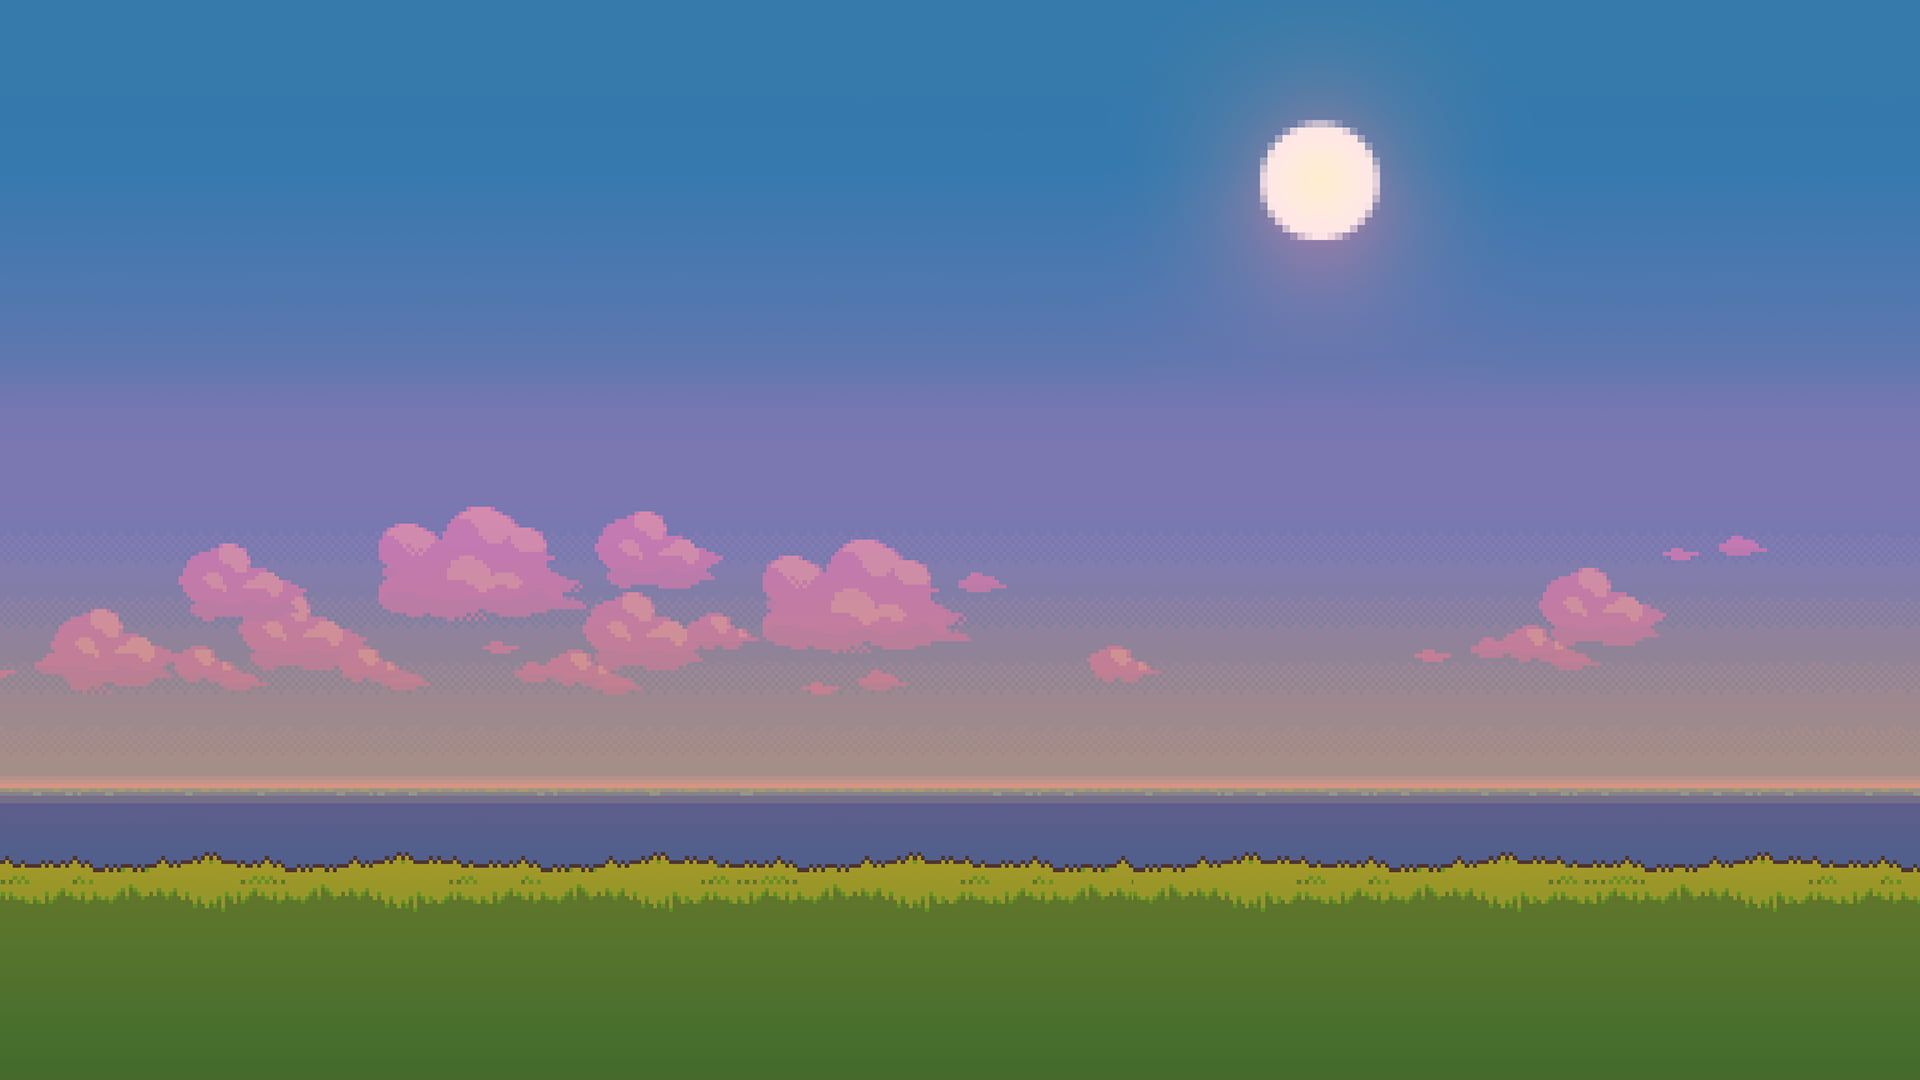
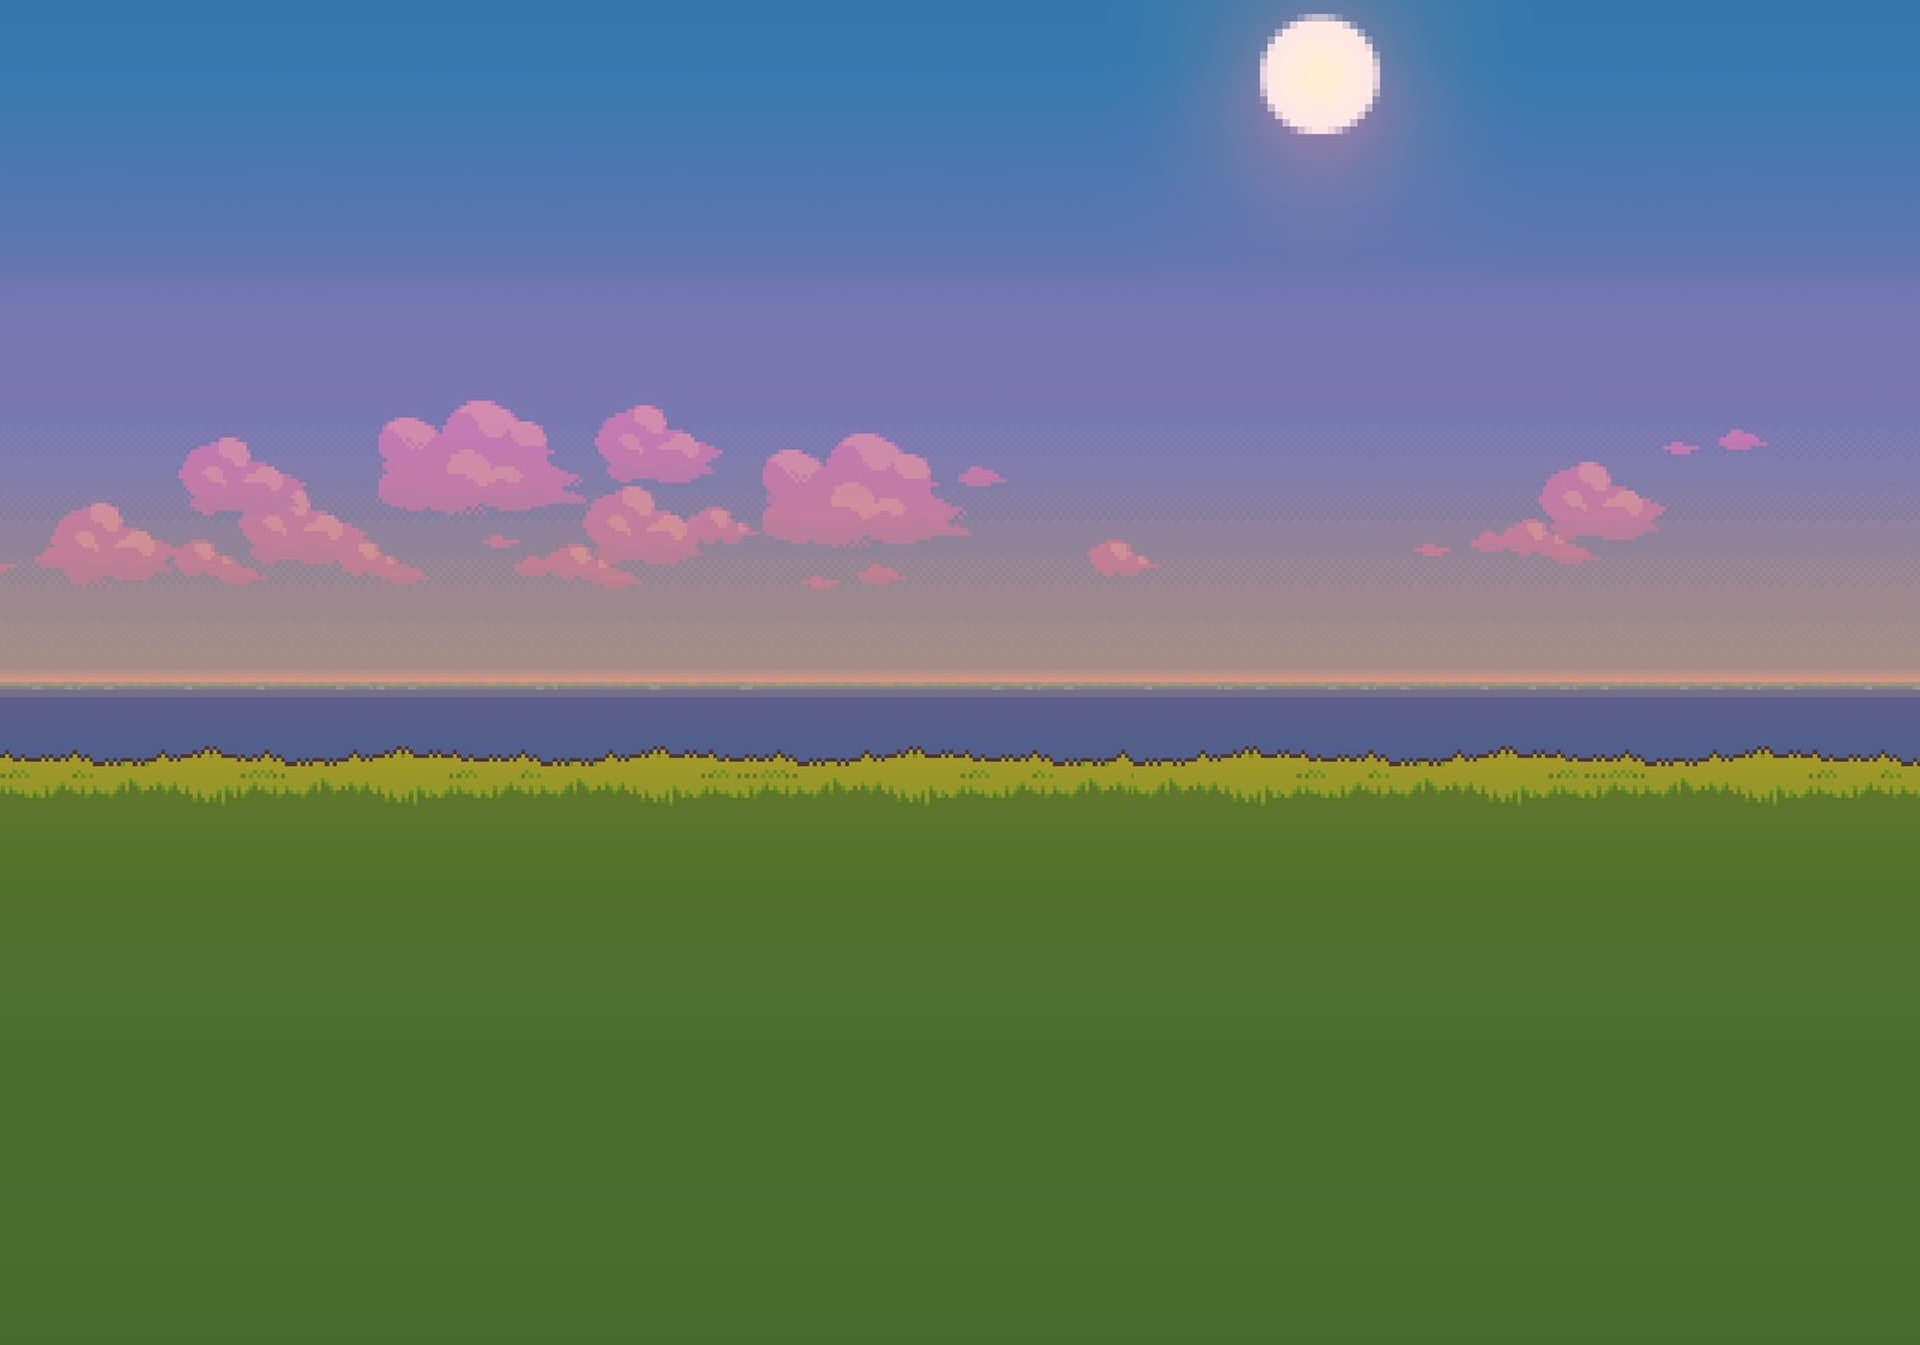
добавлены стили, анимация векты и новые препятствия

diff --git a/src/screens/Game.tsx b/src/screens/Game.tsx
@@ -1,4 +1,5 @@
 "use client";
+
 import { useRef } from "react";
 import { useEffect } from "react";
 
@@ -13,7 +14,6 @@ function Game() {
         if (!ctx) return;
 
         const dpr = window.devicePixelRatio ?? 1;
-
         const w = 360;
         const h = 640;
         canvas.style.width = `${w}px`;
@@ -21,17 +21,12 @@ function Game() {
         canvas.width = Math.floor(w * dpr);
         canvas.height = Math.floor(h * dpr);
 
-
         ctx!.setTransform(dpr, 0, 0, dpr, 0, 0);
 
         const bg = new Image();
         bg.src = "/background-2.jpg";
 
-        // const characterImg = new Image();
-        // characterImg.src = "/characters/vecta.png"; 
-        // characterImg.src = "/characters/runner.gif";
-
-        const RUN_FRAMES = [
+        const RUN_FRAMES_KODIK = [
             "/characters/kodik-1.png",
             "/characters/kodik-2.png",
             "/characters/kodik-3.png",
@@ -41,7 +36,17 @@ function Game() {
             "/characters/kodik-7.png",
         ];
 
-        const runImages = RUN_FRAMES.map((src) => {
+        const RUN_FRAMES_VECTA = [
+            "/characters/vecta-1.png",
+            "/characters/vecta-2.png",
+            "/characters/vecta-3.png",
+            "/characters/vecta-4.png",
+            "/characters/vecta-5.png",
+            "/characters/vecta-6.png",
+            "/characters/vecta-7.png",
+        ]
+
+        const runImages = RUN_FRAMES_VECTA.map((src) => {
             const img = new Image();
             img.src = src;
             return img;
@@ -49,11 +54,23 @@ function Game() {
 
         let characterDraw = runImages[0];
         let useJumpFrame = false;
-        let jumpUntil = 0; // 0 = не в режиме прыжка
-        const JUMP_SPRITE_MS = 800; 
+        let jumpUntil = 0;
+        const JUMP_SPRITE_MS = 800;
 
         const konusImg = new Image();
         konusImg.src = '/konus.png';
+
+        const examImg = new Image();
+        examImg.src = '/exam.png';
+
+        const lakeImg = new Image();
+        lakeImg.src = '/lake.png';
+
+        const holeImg = new Image();
+        holeImg.src = '/hole.png';
+
+        const stopImg = new Image();
+        stopImg.src = '/stop.png';
 
         let playerY = 270;
         const jumpUp = 200;
@@ -109,12 +126,11 @@ function Game() {
                 const x1 = -offsetX;
                 ctx.drawImage(bg, x1, 0, bgW, h);
                 ctx.drawImage(bg, x1 + bgW, 0, bgW, h);
-                ctx.drawImage(konusImg, barrierX, 330, 80, 90);
-                ctx.drawImage(konusImg, barrierX + 200, 330, 80, 90);
-                ctx.drawImage(konusImg, barrierX + 450, 330, 80, 90);
-                ctx.drawImage(konusImg, barrierX + 600, 330, 80, 90);
-
-                // if (!isJumpSprite) {
+                ctx.drawImage(konusImg, barrierX, 330, 60, 75);
+                ctx.drawImage(lakeImg, barrierX + 400, 390, 90, 20);
+                ctx.drawImage(holeImg, barrierX + 750, 390, 90, 20);
+                ctx.drawImage(stopImg, barrierX + 1000, 290, 50, 120);
+                
                 if (playerY >= 270) {
                     if (Math.floor(now / 80) % 6 === 0) {
                         characterDraw = runImages[0];
@@ -131,7 +147,6 @@ function Game() {
                     }
                 } else {
                     characterDraw = runImages[6];
-                    // useJumpFrame = false;
                 }
                 
                 
@@ -143,61 +158,9 @@ function Game() {
                     // playerVY = 0;
                 // }
 
-                // if (Math.floor(now / 150) % 7 === 0) {
-                    
-                // } else if (Math.floor(now / 150) % 7 === 1) {
-                //     ctx.drawImage(
-                //         runImages[1],
-                //         48,
-                //         playerY,
-                //         150,
-                //         150
-                //     );
-                // } else if (Math.floor(now / 150) % 7 === 2) {
-                //     ctx.drawImage(
-                //         runImages[2],
-                //         48,
-                //         playerY,
-                //         150,
-                //         150
-                //     );
-                // } else if (Math.floor(now / 150) % 7 === 3) {
-                //     ctx.drawImage(
-                //         runImages[3],
-                //         48,
-                //         playerY,
-                //         150,
-                //         150
-                //     );
-                // } else if (Math.floor(now / 150) % 7 === 4) {
-                //     ctx.drawImage(
-                //         runImages[4],
-                //         48,
-                //         playerY,
-                //         150,
-                //         150
-                //     );
-                // } else if (Math.floor(now / 150) % 7 === 5) {
-                //     ctx.drawImage(
-                //         runImages[5],
-                //         48,
-                //         playerY,
-                //         150,
-                //         150
-                //     );
-                // } else if (Math.floor(now / 150) % 7 === 6) {
-                //     ctx.drawImage(
-                //         runImages[6],
-                //         48,
-                //         playerY,
-                //         150,
-                //         150
-                //     );
-                // }
-
                 ctx.drawImage(
                         characterDraw,
-                        48,
+                        30,
                         playerY,
                         150,
                         150

diff --git a/src/screens/Form.tsx b/src/screens/Form.tsx
@@ -21,6 +21,7 @@ function Form({onClick}: Props) {
             <div className="relative z-10 flex h-full flex-col items-stretch justify-center gap-2 p-6">
                 <p className="text-cream-text text-[16px] text-center">Чтобы выйти на старт, активируй</p>
                 <AccentText className="uppercase text-[24px] text-center">Driver Mode</AccentText>
+
                 <label htmlFor="first-name"
                     className="flex w-full items-center gap-2 text-left text-cream-text"
                 >
@@ -33,6 +34,7 @@ function Form({onClick}: Props) {
                     Имя
                 </label>
                 <Input id="first-name" placeholder="Введи имя"></Input>
+
                 <label htmlFor="last-name"
                     className="flex w-full items-center gap-2 text-left text-cream-text"
                 >
@@ -45,6 +47,7 @@ function Form({onClick}: Props) {
                     Фамилия
                 </label>
                 <Input id="last-name" placeholder="Введи фамилию"></Input>
+
                 <label htmlFor="city"
                     className="flex w-full items-center gap-2 text-left text-cream-text"
                 >
@@ -57,6 +60,7 @@ function Form({onClick}: Props) {
                     Город
                 </label>
                 <Input id="city" placeholder="Введи город"></Input>
+
                 <label htmlFor="phone"
                     className="flex w-full items-center gap-2 text-left text-cream-text"
                 >
@@ -68,9 +72,32 @@ function Form({onClick}: Props) {
                     />
                     Телефон
                 </label>
-                <Input id="phone" placeholder="+7()"></Input>
-                <label className="text-cream-text text-[12px]">я согласен (-а) с политикой конфиденциальности и обработки персональных данных</label>
-                <input type="checkbox" checked={disabled} onChange={(e) => setDisabled(e.target.checked)}></input>
+                <Input id="phone" placeholder="+7 (xxx) xxx xx xx"></Input>
+
+                <label htmlFor="consent" className="flex w-full cursor-pointer items-start gap-3 text-left">
+                    <input id="consent" type="checkbox" className="peer sr-only" onChange={(e) => setDisabled(e.target.checked)} checked={disabled} />
+                    <span
+                        className="
+                        relative mt-0.5 flex h-5 w-5 shrink-0 items-center justify-center
+                        border-2 border-cream-text bg-transparent
+                        peer-focus-visible:outline peer-focus-visible:outline-2
+                        peer-focus-visible:outline-offset-2 peer-focus-visible:outline-custom-lime
+                        [&_img]:opacity-0 peer-checked:[&_img]:opacity-100
+                        "
+                        aria-hidden
+                    >
+                        <img
+                        src="/check.svg"
+                        alt=""
+                        className="h-4 w-4 transition-opacity duration-150"
+                        />
+                    </span>
+                    {/* <span className="mt-0.5 h-5 w-5 shrink-0 border-2 border-cream-text bg-transparent peer-checked:bg-custom-lime" /> */}
+                    <span className="flex-1 text-left text-[12px] text-cream-text">я согласен (-а) с <a className="underline">политикой конфиденциальности</a> и обработки персональных данных</span>
+                </label>
+
+                {/* <label className="text-cream-text text-[12px]">я согласен (-а) с политикой конфиденциальности и обработки персональных данных</label>
+                <input type="checkbox" checked={disabled} onChange={(e) => setDisabled(e.target.checked)}></input> */}
                 <Button disabled={!disabled} onClick={onClick}>Активировать Driver Mode</Button>
             </div>
         </div>

diff --git a/src/screens/Start.tsx b/src/screens/Start.tsx
@@ -13,13 +13,15 @@ const pressStart2P = Press_Start_2P({
 
 function Start({onClick}: Props) {
     return (
-        <div className="flex justify-between pb-[102px] px-[16px] w-[360px] h-[640px] pt-[74px] mx-auto bg-[url('/bg-phone.png')] bg-cover bg-center bg-no-repeat flex-col items-center">
+        <div className="flex justify-between pb-[102px] px-[16px] w-[360px] h-[640px] pt-[62px] mx-auto bg-[url('/bg-phone.png')] bg-cover bg-center bg-no-repeat flex-col items-center">
             <div className="">
-                <h1 className={`${pressStart2P.className} text-center text-[18px] uppercase leading-[40px] text-white font-normal`}>Игры для взрослых</h1>
-                <h2 className={`${pressStart2P.className} text-center text-[18px] lowercase leading-[40px] text-custom-lime font-normal`}>пора за руль</h2>
-                <h2 className="text-cream-text text-center">Пройди путь до Кибертрака Вектор и открой скидку до 5000 ₽ на обучение.</h2>
+                <div className="flex-col gap-[8px]">
+                    <p className={`${pressStart2P.className} text-center p-0 text-[18px] uppercase text-white font-normal`}>Игры для взрослых</p>
+                    <p className={`${pressStart2P.className} text-center p-0 text-[18px] lowercase text-custom-lime font-normal`}>пора за руль</p>
+                </div>
+                <p className="text-cream-text pt-[14px] text-center">Пройди путь до Кибертрака Вектор и открой скидку до 5000 ₽ на обучение.</p>
             </div>
-            <Button onClick={onClick}>Начать игру</Button>
+            <Button onClick={onClick} className="w-full">Начать игру</Button>
         </div>
     )
 }

diff --git a/src/components/CharacterSelector.tsx b/src/components/CharacterSelector.tsx
@@ -13,12 +13,12 @@ function CharacterSelector({  value, onChange  }: Props) {
     const selectedKodik = value === CHARACTERS[1].id;
 
     return (
-        <div role="radiogroup" className="flex gap-6">
-            <button role="radio" onClick={() => onChange(CHARACTERS[0].id)} className="flex-col cursor-pointer items-center gap-3 rounded-2xl transition" >
-                <div className="flex h-32 w-32 items-center justify-center"><img className="h-40 hover:h-36" src={'/vecta-card.png'}></img></div>
+        <div role="radiogroup" className="flex gap-[12px]">
+            <button role="radio" onClick={() => onChange(CHARACTERS[0].id)} className="flex-col cursor-pointer items-center gap-3 rounded-2xl transition hover:ring-1 hover:ring-red-500 hover:shadow-[0_0_16px_red]" >
+                <div className="flex items-center justify-center"><img className="h-[280px] w-[158px]" src={'/vecta-card-modile.png'}></img></div>
             </button>
-            <button role="radio" onClick={() => onChange(CHARACTERS[1].id)} className="flex-col cursor-pointer items-center gap-3 rounded-2xl transition">
-                <div className="flex h-32 w-32 items-center justify-center"><img className="h-40 hover:h-36" src={'/kodik-card.png'}></img></div>
+            <button role="radio" onClick={() => onChange(CHARACTERS[1].id)} className="flex-col cursor-pointer items-center gap-3 rounded-2xl transition hover:ring-1 hover:ring-custom-lime hover:shadow-[0_0_16px_#77FF00]">
+                <div className="flex items-center justify-center"><img className="h-[280px] w-[158px]" src={'/kodik-card-mobile.png'}></img></div>
             </button>
         </div>
     )

diff --git a/src/components/Input.tsx b/src/components/Input.tsx
@@ -1,10 +1,15 @@
 import type { InputHTMLAttributes } from "react";
-import { Press_Start_2P } from "next/font/google";
+import { Handjet, Press_Start_2P } from "next/font/google";
 
-const pressStart2P = Press_Start_2P({
-  weight: "400",
-  subsets: ["latin"],
+const handjet = Handjet({
+  subsets: ["latin", "cyrillic"],
+  variable: "--font-handjet",
 });
+
+// const pressStart2P = Press_Start_2P({
+//   weight: "400",
+//   subsets: ["latin", "cyrillic"],
+// });
 
 type InputProps = {
   label?: string;
@@ -15,12 +20,16 @@ type InputProps = {
 const inputStyles =
   "w-full h-[48px] px-4 box-border " +
   "bg-white/90 text-foreground placeholder:text-foreground/50 " +
+  "placeholder:text-foreground/50 " +
+  "placeholder:[font-family:var(--font-handjet)] " +
+  "placeholder:text-[24px] " +
   "border-2 border-[var(--color-brown-shadow)] " +
   "outline-none focus:border-custom-lime " +
   "disabled:cursor-not-allowed disabled:opacity-50";
 
 const labelStyles =
-  `${pressStart2P.className} text-[12px] uppercase text-[var(--color-cream-text)]`;
+      "";
+//   `${pressStart2P.className} text-[12px] uppercase text-[var(--color-cream-text)]`;
 
 function Input({
   label,
@@ -40,7 +49,7 @@ function Input({
       ) : null}
       <input
         id={inputId}
-        className={`${pressStart2P.className} ${inputStyles} ${className}`.trim()}
+        className={`${handjet.variable} ${inputStyles} ${className}`.trim()}
         {...props}
       />
     </div>

diff --git a/src/screens/CharacterMenu.tsx b/src/screens/CharacterMenu.tsx
@@ -16,11 +16,13 @@ function CharacterMenu({onClick}: Props) {
     const [character, setCharacter] = useState<CharacterId | null>(null);
 
     return (
-        <div className="flex min-h-screen w-[360px] h-[640px] mx-auto flex-col bg-[url('/bg-character-mobile.png')] bg-cover bg-center bg-no-repeat items-center justify-center gap-8 p-6">
-            <AccentText className="text-center uppercase text-[18px] text-white font-bold">Кто поведет тебя</AccentText>
-            <AccentText className="lowercase text-[18px]"> к Кибертраку?</AccentText>
+        <div className="flex justify-between min-h-screen w-[360px] h-[640px] mx-auto flex-col bg-[url('/bg-character-mobile.png')] bg-cover bg-center bg-no-repeat items-center pt-[62px] pb-[102px] px-[16px]">
+            <div className="flex-col mx-auto text-center gap-[8px]">
+                <AccentText className="text-center uppercase text-[18px] text-white font-bold">Кто поведет тебя</AccentText>
+                <AccentText className="lowercase text-[18px]"> к Кибертраку?</AccentText>
+            </div>
             <CharacterSelector value={character} onChange={setCharacter}></CharacterSelector>
-            <Button disabled={!character} onClick={onClick}>На старт</Button>
+            <Button disabled={!character} onClick={onClick} className="w-full">На старт</Button>
         </div>
     )
 }

diff --git a/src/components/Button.tsx b/src/components/Button.tsx
@@ -12,7 +12,7 @@ const pressStart2P = Press_Start_2P({
 });
 
 const styles = 
-    "h-[52px] px-[16px] disabled:bg-brown-shadow uppercase bg-custom-yellow shadow-[inset_4px_4px_0_0_var(--color-light-shadow),inset_-4px_-4px_0_0_var(--color-brown-shadow)]";
+    "h-[52px] px-[16px] disabled:bg-brown-shadow uppercase bg-custom-yellow shadow-[inset_4px_4px_0_0_var(--color-light-shadow),inset_-4px_-4px_0_0_var(--color-brown-shadow)] cursor-pointer";
 
 function Button({
   children,
